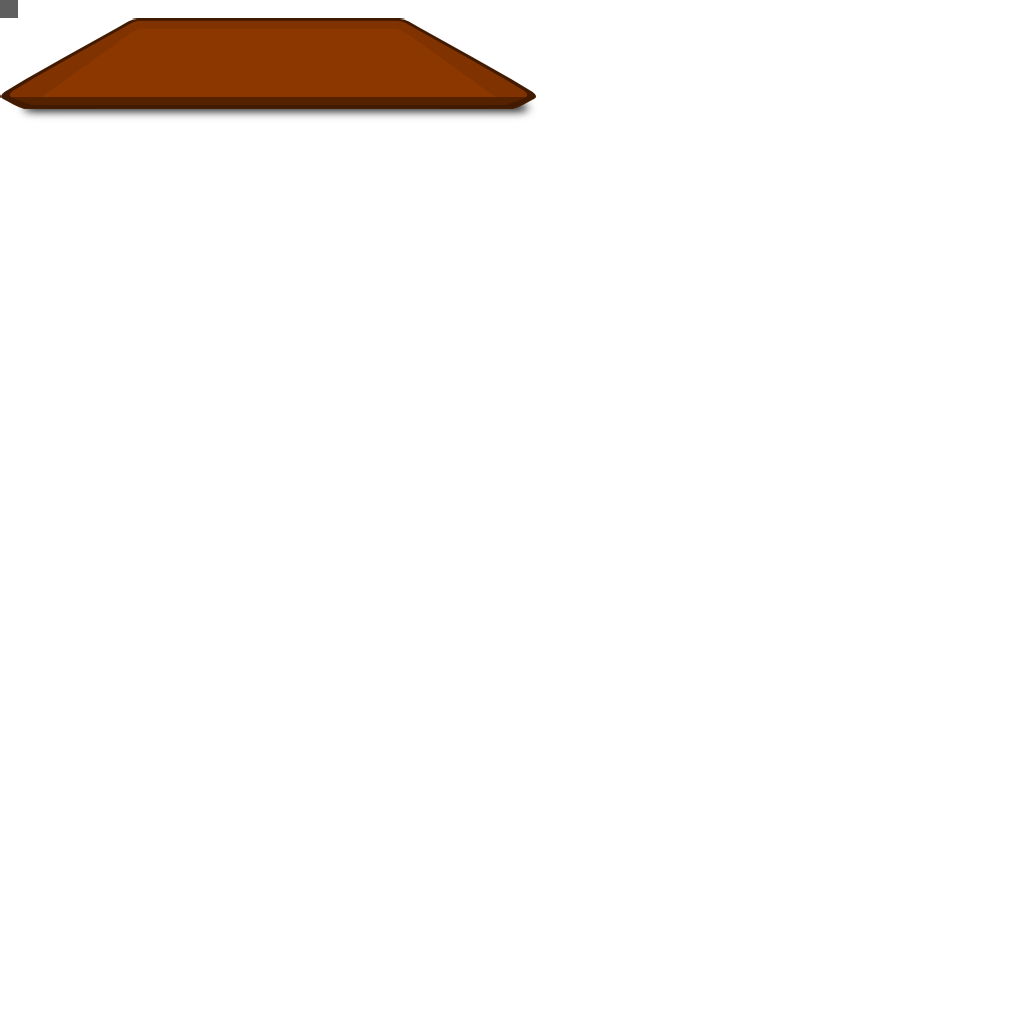
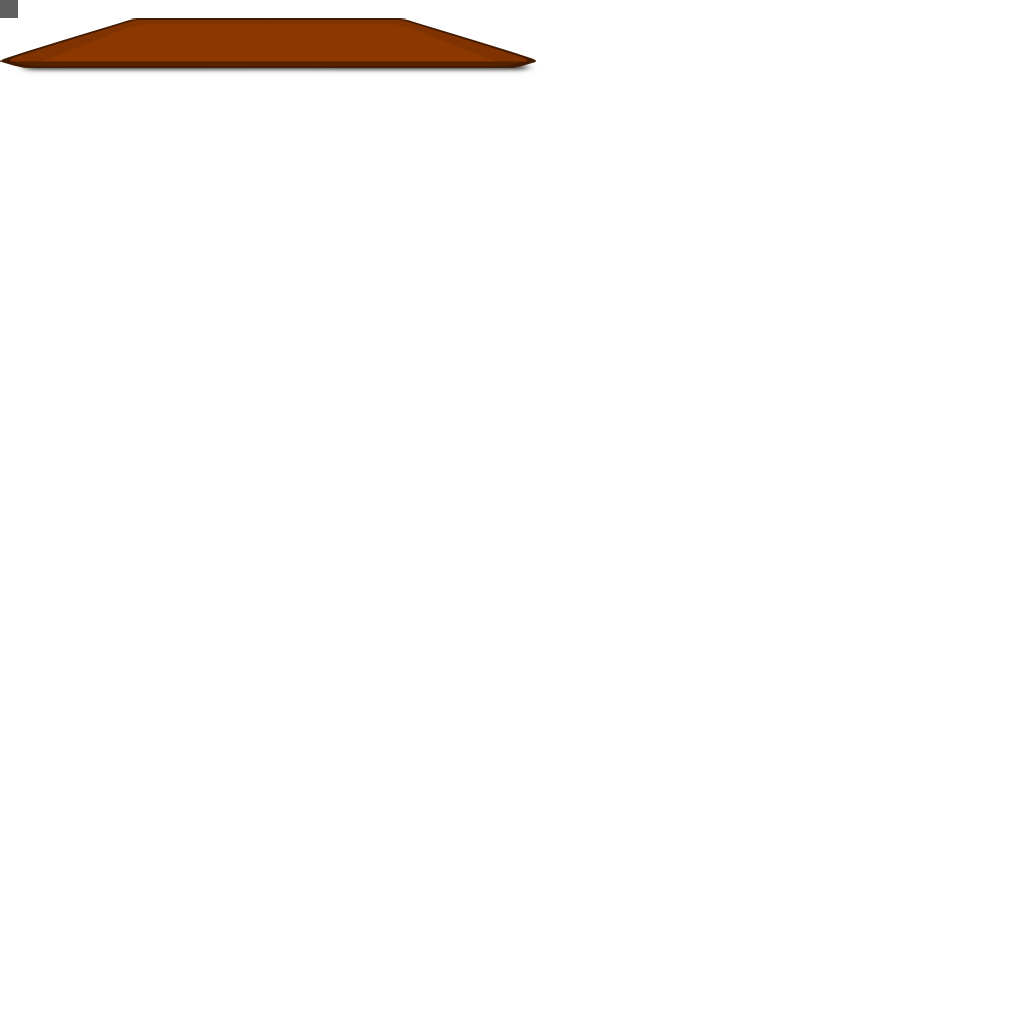
Adjust perspective of platter

Changed region(s): [[0.0, 0.0, 0.5312, 0.125]]

diff --git a/burgerparty/src/com/agateau/burgerparty/view/WorldView.java b/burgerparty/src/com/agateau/burgerparty/view/WorldView.java
@@ -158,10 +158,7 @@ public class WorldView extends AbstractWorldView {
 
 	private void setupMealView() {
 		mMealView = new MealView(mWorld.getBurger(), mWorld.getMealExtra(), mAtlas, true);
-		// We add an anchor rule in this setup method because it is called
-		// for each customer
-		addRule(mMealView, Anchor.BOTTOM_CENTER, mWorkbench, Anchor.BOTTOM_CENTER, 0, 0);
-		invalidate();
+		createMealViewAnchorRule(mMealView);
 	}
 
 	private void setupHud() {

diff --git a/burgerparty/src/com/agateau/burgerparty/view/AbstractWorldView.java b/burgerparty/src/com/agateau/burgerparty/view/AbstractWorldView.java
@@ -68,6 +68,10 @@ public class AbstractWorldView extends AnchorGroup {
 		addRule(mWorkbench, Anchor.BOTTOM_LEFT, mInventoryView, Anchor.TOP_LEFT);
 	}
 
+	protected void createMealViewAnchorRule(MealView mealView) {
+		addRule(mealView, Anchor.BOTTOM_CENTER, mWorkbench, Anchor.BOTTOM_CENTER, 0, 0.48f);
+	}
+
 	protected InventoryView mInventoryView;
 	protected Image mWorkbench;
 	protected float mWidth = -1;

diff --git a/burgerparty/src/com/agateau/burgerparty/view/MealView.java b/burgerparty/src/com/agateau/burgerparty/view/MealView.java
@@ -19,7 +19,7 @@ public class MealView extends Group implements ResizeToFitChildren {
 	private static final float PLATTER_ANIM_DURATION = 0.2f;
 
 	private static final float BURGER_X = 40f;
-	private static final float MEAL_Y = 30f;
+	private static final float MEAL_Y = 15f;
 
 	public MealView(Burger burger, MealExtra mealExtra, TextureAtlas atlas, boolean withPlatter) {
 		if (withPlatter) {

diff --git a/burgerparty/src/com/agateau/burgerparty/view/SandBoxGameView.java b/burgerparty/src/com/agateau/burgerparty/view/SandBoxGameView.java
@@ -93,7 +93,7 @@ public class SandBoxGameView extends AbstractWorldView {
 		mUndoStack.clear();
 		mMealView = new MealView(mWorld.getBurger(), mWorld.getMealExtra(), Kernel.getTextureAtlas(), true);
 
-		addRule(mMealView, Anchor.BOTTOM_CENTER, mWorkbench, Anchor.BOTTOM_CENTER, 0, 0);
+		createMealViewAnchorRule(mMealView);
 	}
 
 	private void switchInventories() {

diff --git a/burgerparty/src/com/agateau/burgerparty/view/MealExtraView.java b/burgerparty/src/com/agateau/burgerparty/view/MealExtraView.java
@@ -21,7 +21,7 @@ public class MealExtraView extends Group {
 	private static final float ITEM0_X = 0;
 	private static final float ITEM0_Y = 0;
 	private static final float ITEM1_X = -30;
-	private static final float ITEM1_Y = 20;
+	private static final float ITEM1_Y = 10;
 
 	public MealExtraView(MealExtra mealExtra, TextureAtlas atlas) {
 		mMealExtra = mealExtra;
